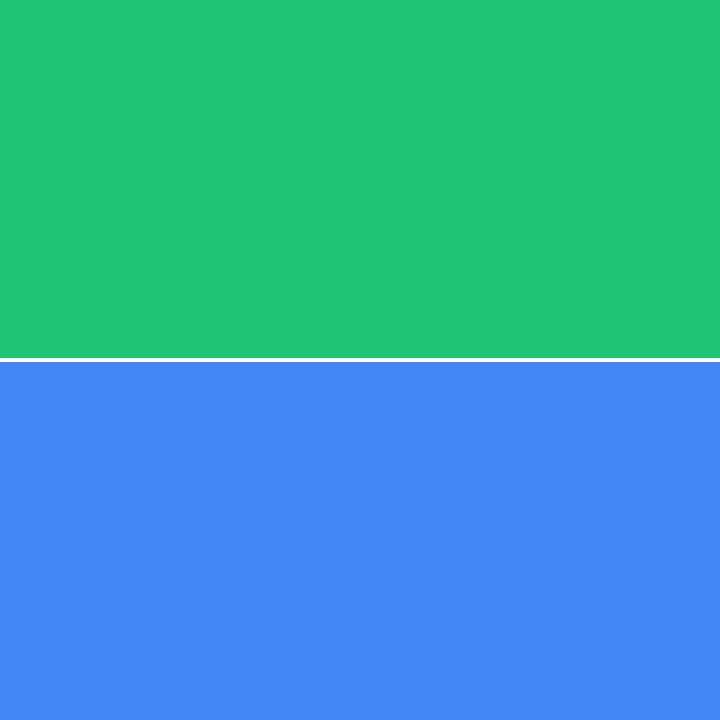
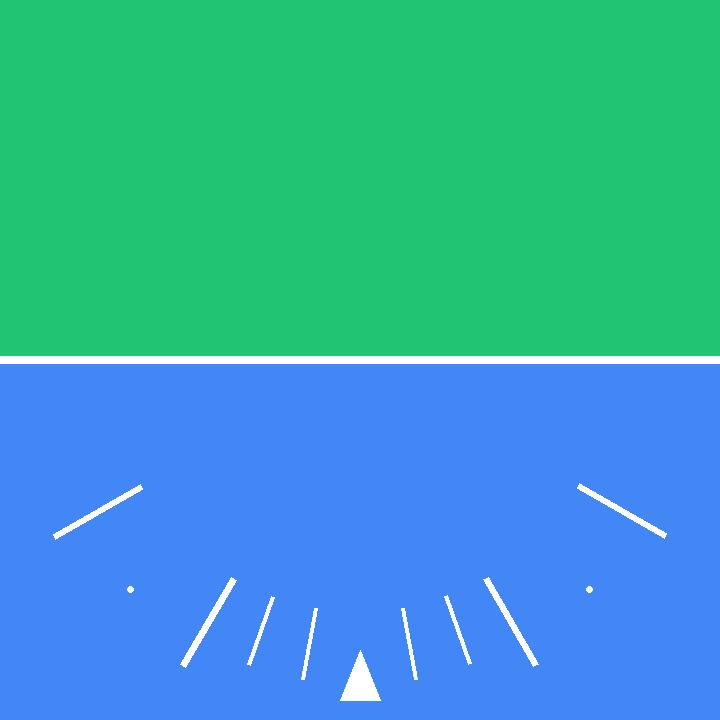
Second attempt

diff --git a/glut-starter.c b/glut-starter.c
@@ -18,12 +18,16 @@
 #include <GL/gl.h>
 #include <GL/glu.h>
 #include <GL/freeglut.h>   // Consider using freeglut.h instead, if available.
+#include <GL/glext.h>
+#include <GL/glcorearb.h>
 #include <stdio.h>     // (Used only for some information messages to standard out.)
 #include <stdlib.h>    // (Used only for exit() function.)
+#include <math.h>
 #include <jpeglib.h>
 #include <jerror.h>
 
 #define DEBUG 1
+#define ARC_INDICES 37
 
 struct imgRawImage {
     unsigned int numComponents;
@@ -36,11 +40,11 @@ struct imgRawImage {
 int width, height;   // Size of the drawing area, to be set in reshape().
 
 int frameNumber = 0;     // For use in animation.
-int roll = 90;
+int roll = 0;
 int pitch = 0;
 
 GLuint texture[2];
-GLuint vertices[1];
+GLfloat vertices[ARC_INDICES][2];
 
 
 struct imgRawImage* loadJpegImageFile(char* lpFilename) {
@@ -119,24 +123,7 @@ struct imgRawImage* loadJpegImageFile(char* lpFilename) {
 
     return lpNewImage;
 }
-/*
-void LoadGJVertices() {
-    float vertice0[] = {
-        -0.8f, 0.0f, 0.0f,
-        -0.15f, 0.0f, 0.0f,
-        -0.1f, 0.1f, 0.0f,
-        0.1f, 0.1f, 0.0f,
-        0.15f, 0.0f, 0.0f,
-        0.8f, 0.0f, 0.0f
-    };
 
-    //glGenBuffers(1, &vertices[0]);
-    glGenVertexArrays(1, &vertices[0]);
-    //glBindBuffer(GL_ARRAY_BUFFER, vertices[0]);
-    glBindVertexArray(vertices[0]);
-    glBufferData(GL_ARRAY_BUFFER, sizeof(vertice0), vertice0, GL_STATIC_DRAW);
-}
-*/
 void LoadGLTextures() {
     struct imgRawImage *image, *image2;
 
@@ -213,11 +200,16 @@ void initGL() {
     GLfloat colorLightGray[] = { 0.75, 0.75, 0.75, 1.0 };
     glLightfv(GL_LIGHT0, GL_AMBIENT, colorDarkGray);
     glLightfv(GL_LIGHT0, GL_DIFFUSE, colorLightGray);
-    //glLightfv(GL_LIGHT0, GL_DIFFUSE, colorWhite);
     glLightfv(GL_LIGHT0, GL_SPECULAR, colorWhite);
 
     LoadGLTextures();
 
+    // Generate arc vertices
+    for (int i = 0; i < ARC_INDICES; i++) {
+        double rad = (i / (double)(ARC_INDICES - 1)) * M_PI;
+        vertices[i][0] = cos(rad) * -0.25f;
+        vertices[i][1] = sin(rad) * -0.25f;
+    }
 
 }  // end initGL()
 
@@ -264,16 +256,13 @@ void display() {
     glLightModeli(GL_LIGHT_MODEL_TWO_SIDE, GL_TRUE);
 
     // TODO: INSERT DRAWING CODE HERE
-    glPushMatrix();
 
     glPushMatrix();
-    //setlight();
-    setmaterial();
     glBindTexture(GL_TEXTURE_2D, texture[0]);
     glTranslatef(0.0f, 0.0f, 0.0f);
-    glRotatef(90, 0.0f, 1.0f, 0.0f);
-    glRotatef(pitch, 0.0f, 0.0f, 1.0f);
-    glRotatef(roll, 0.0f, 0.0f, 1.0f);
+    glRotatef(roll + 90, 0.0f, 0.0f, 1.0f);
+    glRotatef(pitch, 0.0f, 1.0f, 0.0f);
+    glRotatef(90, 1.0f, 0.0f, 0.0f);
     GLUquadric *sphere = gluNewQuadric();
     gluQuadricDrawStyle(sphere, GLU_FILL);
     gluQuadricNormals(sphere, GLU_SMOOTH);
@@ -283,8 +272,6 @@ void display() {
     glPopMatrix();
 
     glPushMatrix();
-    //setlight();
-    setmaterial();
     glBindTexture(GL_TEXTURE_2D, texture[1]);
     glTranslatef(0.0f, 0.0f, -0.7f);
     glRotatef(roll, 0.0f, 0.0f, 1.0f);
@@ -295,11 +282,6 @@ void display() {
     gluDisk(ring, 0.8f, 1.0f, 72, 10);
     gluDeleteQuadric(ring);
     glPopMatrix();
-
-    //glRotatef(roll, 0.0f, 0.0f, 1.0f);
-    //glBegin(GL_POINTS);
-    //glEnd();
-    //glPopMatrix();
 
     glPushMatrix();
     glDisable(GL_TEXTURE_2D);
@@ -313,6 +295,19 @@ void display() {
     glVertex3f(0.1f, 0.1f, 0.0f);
     glVertex3f(0.15f, 0.0f, 0.0f);
     glVertex3f(0.8f, 0.0f, 0.0f);
+    glEnd();
+    glBegin(GL_LINE_STRIP);
+    glColor3f(1.0f, 1.0f, 1.0f);
+    for (int i = 0; i < ARC_INDICES; i++) {
+        glVertex3f(vertices[i][0], vertices[i][1], 0.0f);
+    }
+    glEnd();
+    glBegin(GL_LINE_STRIP);
+    glColor3f(1.0f, 1.0f, 1.0f);
+    glVertex3f(0.0f, 0.1f, 0.0f);
+    glVertex3f(0.0f, 0.8f, 0.0f);
+    glVertex3f(0.3f, 0.2f, 0.0f);
+    glVertex3f(0.0f, 0.2f, 0.0f);
     glEnd();
     glEnable(GL_TEXTURE_2D);
     glPopMatrix();
